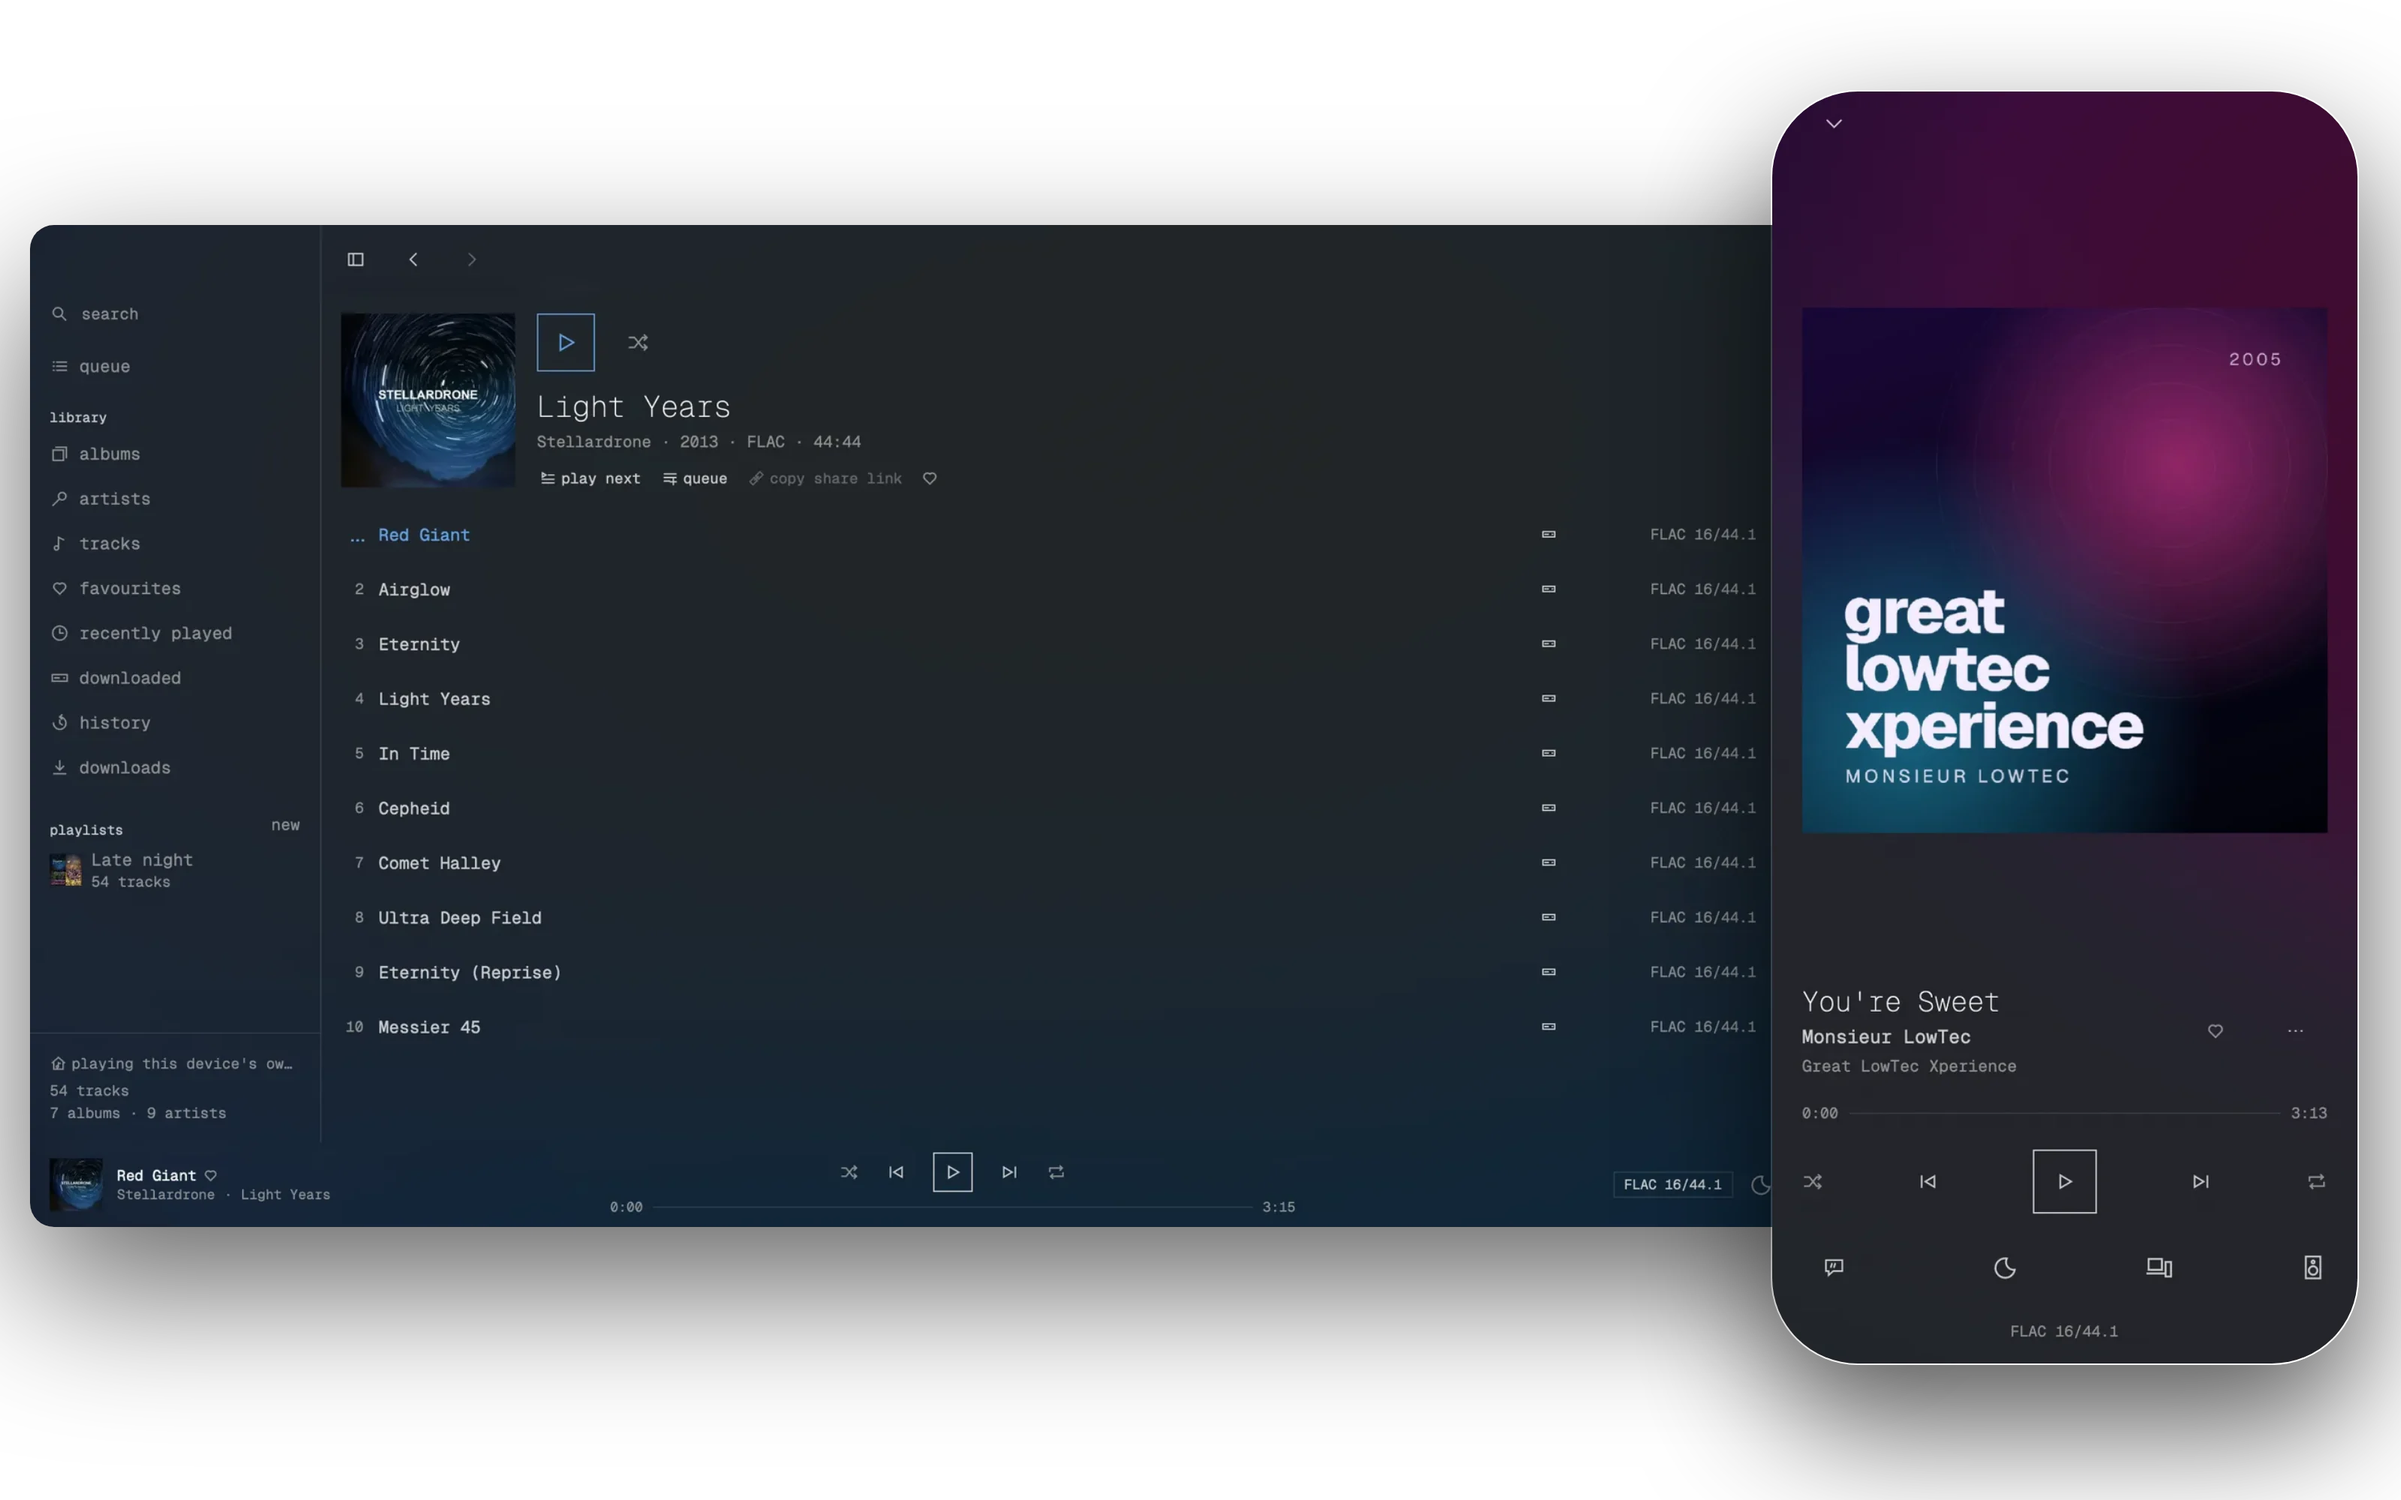
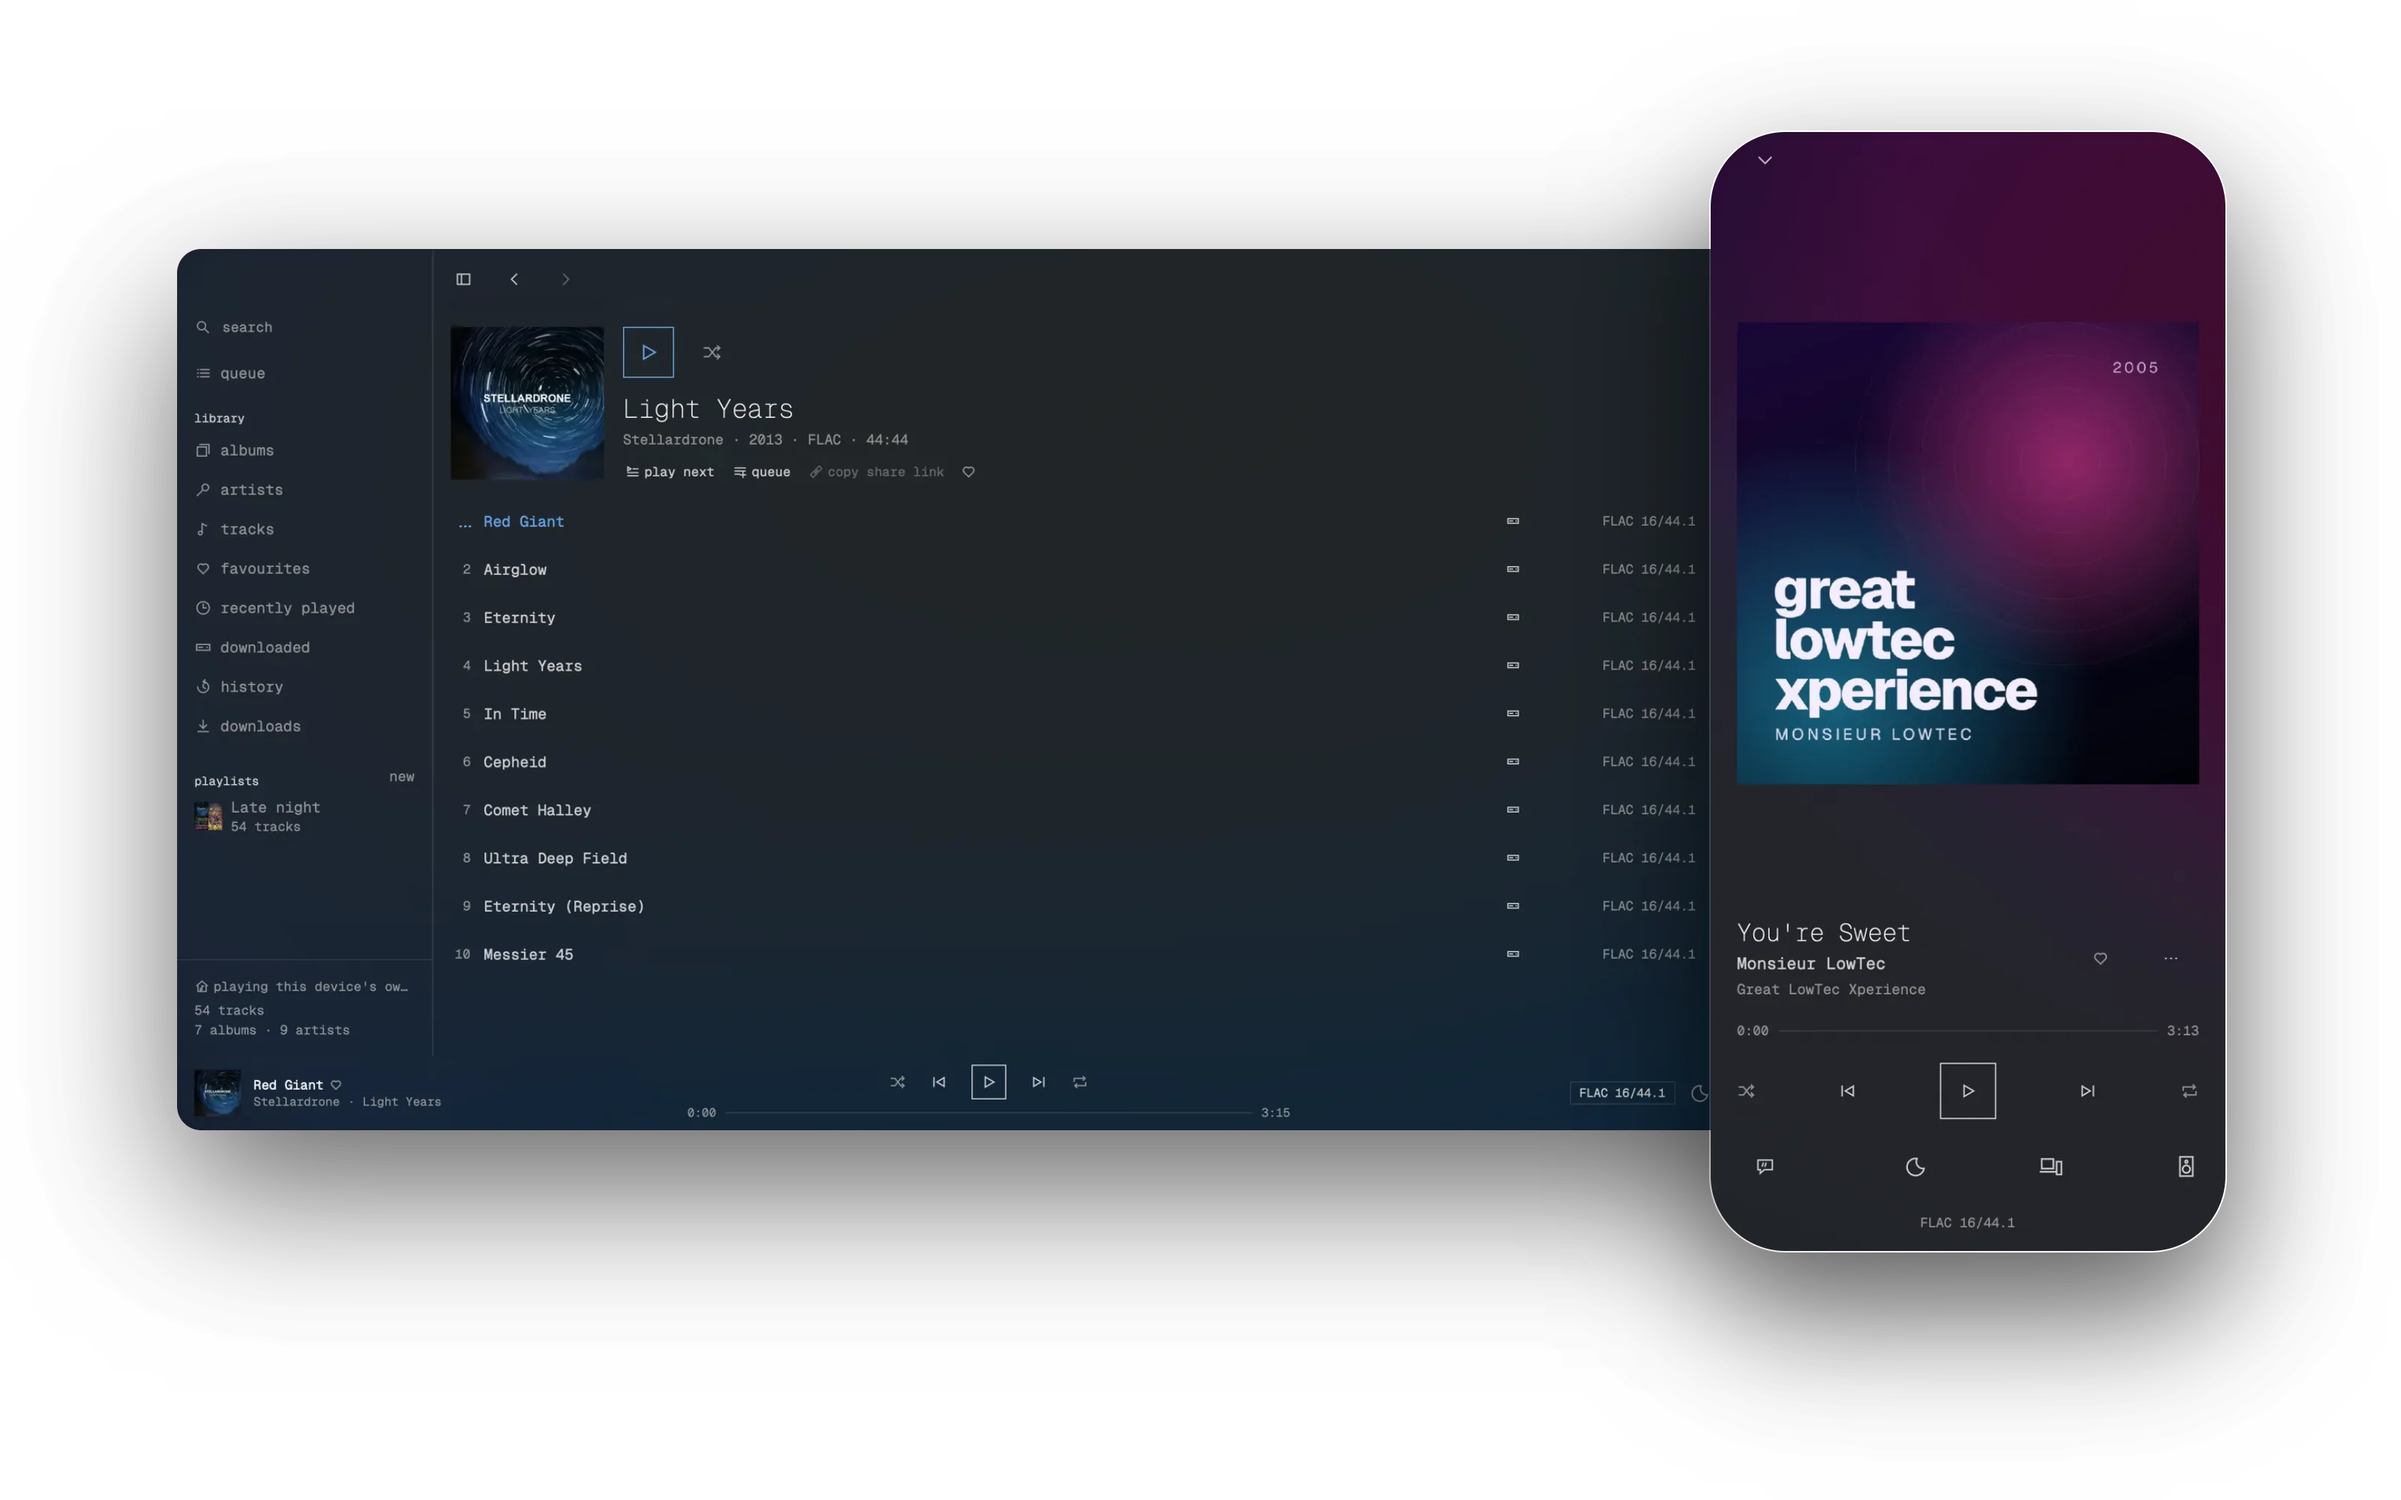
Unclipped shadows on the koan.rocks hero image (#2298)
* site: keep the hero image's shadows inside the canvas

The desktop window sat 20px from the left edge under a 100px blur and the
phone ran past the right and bottom edges, so the screenshot cut both
shadows off. Both pictures are smaller and set back from the edges by
their shadow's reach.

Claude-Session: https://claude.ai/code/session_016z5eG1nHCp8TBNt1bBcqSx

* changelog: hero image shadows

Claude-Session: https://claude.ai/code/session_016z5eG1nHCp8TBNt1bBcqSx

---------

diff --git a/site/src/hero.html b/site/src/hero.html
@@ -6,7 +6,8 @@
     chrome --headless --hide-scrollbars --force-device-scale-factor=2 --window-size=1600,1000 \
       --default-background-color=00000000 --allow-file-access-from-files --screenshot=hero.png "file://$PWD/src/hero.html"
   At phone widths the page shows public/screens/hero-narrow.webp instead: the same command with --window-size=780,900
-  and #narrow on the URL.
+  and #narrow on the URL. Each picture keeps its shadow's blur plus offset clear of the canvas edges it does not run
+  off, or the screenshot cuts the shadow.
 -->
 <html lang="en-GB">
 <head>
@@ -29,18 +30,18 @@
     }
 
     .mac {
-      left: 20px;
-      top: 150px;
-      width: 1230px;
+      left: 118px;
+      top: 166px;
+      width: 1082px;
       border-radius: 16px;
       box-shadow: 0 40px 100px rgb(0 0 0 / 0.6);
     }
 
     .phone {
-      left: 1180px;
-      top: 60px;
-      width: 390px;
-      border-radius: 58px;
+      left: 1139px;
+      top: 87px;
+      width: 343px;
+      border-radius: 51px;
       border: 1px solid rgb(255 255 255 / 0.14);
       box-shadow: 0 40px 90px rgb(0 0 0 / 0.65);
     }
@@ -51,16 +52,18 @@
     }
 
     .narrow .mac {
-      left: 16px;
-      top: 40px;
+      left: 72px;
+      top: 110px;
       width: 1130px;
+      box-shadow: 0 30px 70px rgb(0 0 0 / 0.6);
     }
 
     .narrow .phone {
-      left: 370px;
-      top: 90px;
-      width: 372px;
-      border-radius: 54px;
+      left: 376px;
+      top: 66px;
+      width: 340px;
+      border-radius: 50px;
+      box-shadow: 0 30px 60px rgb(0 0 0 / 0.65);
     }
   </style>
 </head>

diff --git a/changelog.d/unreleased/fixed/2298-site-hero-shadows.md b/changelog.d/unreleased/fixed/2298-site-hero-shadows.md
@@ -1,0 +1,1 @@
+- **koan.rocks hero image.** The shadows under the desktop window and the phone fade out instead of ending at the image's edge.
